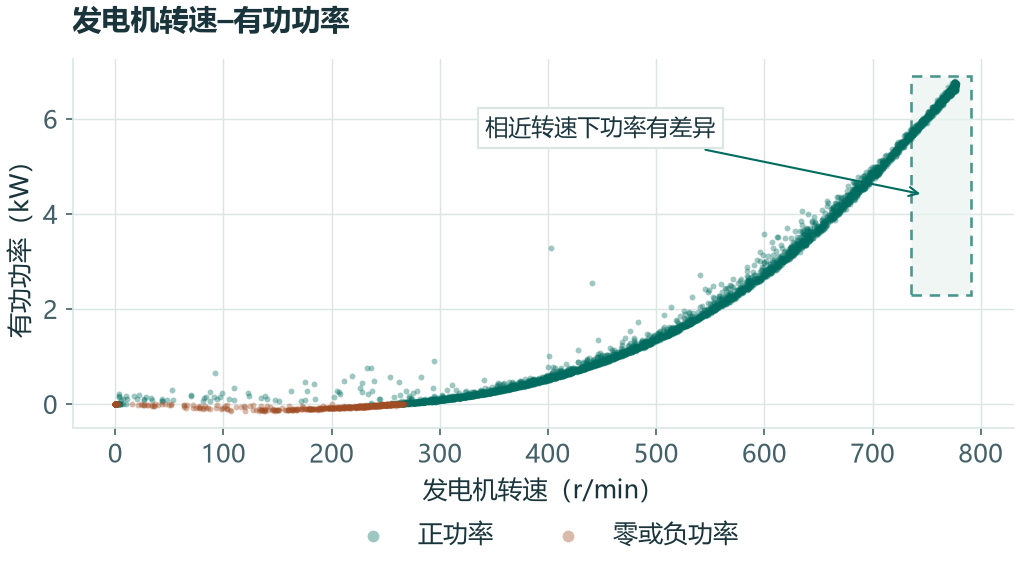
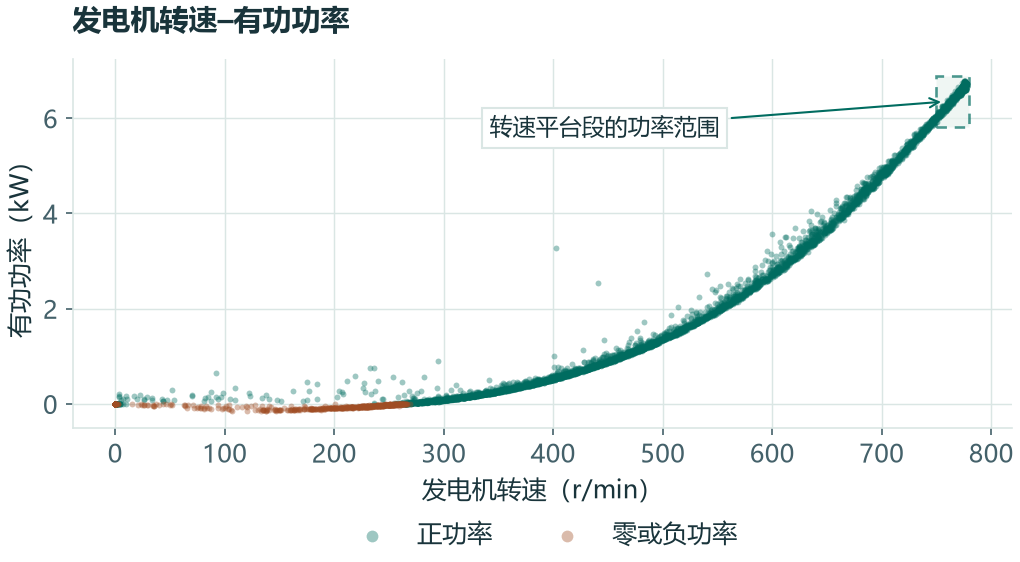
Clarify SCADA screening and improve teaching figures

diff --git a/docs/.vitepress/theme/components/CaseWalkthrough.vue b/docs/.vitepress/theme/components/CaseWalkthrough.vue
@@ -32,7 +32,7 @@ const fmtKw = value => new Intl.NumberFormat('zh-CN', { maximumFractionDigits: 1
       <div><dt>WT041 机舱</dt><dd>00:00–00:09，共 10 条分钟记录</dd><dd class="lesson-value">{{ fmt(data.pairing.nacelle) }} m/s</dd></div>
       <div><dt>A1 雷达</dt><dd>00:05 是整段窗口的中点标记</dd><dd class="lesson-value">{{ fmt(data.pairing.lidar) }} m/s</dd></div>
     </dl>
-    <p class="lesson-result">将机舱的 10 条记录汇总后，按窗口起点 00:00 与雷达记录配对。机舱平均风速减去雷达风速，差值为 <strong>{{ fmt(delta) }} m/s</strong>。</p>
+    <p class="lesson-result">雷达记录的时间减去 5 分钟后，和机舱汇总记录用同一个起点 00:00 配对。机舱均值减去雷达读数，差值为 <strong>{{ fmt(delta) }} m/s</strong>。</p>
   </figure>
 
   <figure v-else-if="example === 'coverage'" class="lesson-figure" aria-labelledby="coverage-caption">

diff --git a/scripts/plot-tutorial-figures.py b/scripts/plot-tutorial-figures.py
@@ -12,7 +12,6 @@ from matplotlib import font_manager, pyplot as plt
 from matplotlib.patches import Rectangle
 from matplotlib.ticker import MaxNLocator, PercentFormatter
 
-
 ROOT = Path(__file__).resolve().parents[1]
 DATA = ROOT / "docs/public/data"
 OUTPUT = ROOT / "docs/public/figures"
@@ -24,7 +23,6 @@ AMBER = "#a04d24"
 GRID = "#dae6e4"
 HIGHLIGHT = "#e9f3ef"
 CUTOFF = pd.Timestamp("2023-08-24T16:00:00Z")
-
 
 def configure_font(font_path):
     if font_path is not None:
@@ -55,16 +53,13 @@ def configure_font(font_path):
         "figure.dpi": 150,
     })
 
-
 def csv(name, time_column):
     data = pd.read_csv(DATA / f"{name}.csv")
     data[time_column] = pd.to_datetime(data[time_column], utc=True)
     return data
 
-
 def panel(width=7, height=4.1):
     return plt.subplots(figsize=(width, height), layout="constrained")
-
 
 def axis(ax, x, y, title=None):
     ax.set(xlabel=x, ylabel=y)
@@ -72,11 +67,9 @@ def axis(ax, x, y, title=None):
     if title is not None:
         ax.set_title(title, loc="left", pad=14)
 
-
 def save(fig, name):
     fig.savefig(OUTPUT / f"{name}.png", facecolor="white")
     plt.close(fig)
-
 
 def aventa_scatter(data):
     positive = data.power_kw.gt(0)
@@ -85,8 +78,8 @@ def aventa_scatter(data):
          "generator_rpm", "发电机转速（r/min）", (4.5, 735, 14.2, 796),
          (12.5, 785), (11.8, 637), "转速平台"),
         ("aventa-speed-power", "发电机转速–有功功率", "generator_rpm", "发电机转速（r/min）",
-         "power_kw", "有功功率（kW）", (736, 2.3, 791, 6.9),
-         (748, 4.4), (342, 5.65), "相近转速下功率有差异"),
+         "power_kw", "有功功率（kW）", (750, 5.82, 780, 6.89),
+         (758, 6.35), (342, 5.65), "转速平台段的功率范围"),
         ("aventa-wind-pitch", "风速–桨距角", "wind_ms", "风速（m/s）",
          "pitch_deg", "桨距角（°）", (0, 11, 4.2, 42),
          (4.1, 39), (6.6, 48), "低风速点带"),
@@ -106,7 +99,6 @@ def aventa_scatter(data):
         axis(ax, xlabel, ylabel, title)
         ax.legend(loc="upper center", bbox_to_anchor=(.5, -.19), ncol=2, markerscale=2)
         save(fig, name)
-
 
 def sample_counts(minutes, paired):
     valid = minutes[["nacelle_ms", "power_kw", "curtailment"]].notna().all(axis=1)
@@ -128,7 +120,6 @@ def sample_counts(minutes, paired):
         ax.bar_label(bars, [f"{count:,}" for count in counts], padding=5)
     save(fig, "scada-sample-counts")
 
-
 def bin_means(data, wind, minimum):
     usable = data[[wind, "power_kw"]].dropna()
     means = usable.groupby(np.floor(usable[wind]).astype(int)).agg(
@@ -136,35 +127,18 @@ def bin_means(data, wind, minimum):
     )
     return means[means["count"] >= minimum]
 
-
 def consecutive_bins(means):
     return means.groupby(means.index.to_series().diff().ne(1).cumsum())
-
 
 def plot_bins(ax, bins, color, style, name):
     for index, (_, group) in enumerate(consecutive_bins(bins)):
         ax.plot(group.wind, group.power, color=color, linestyle=style, linewidth=2.2,
                 marker="o", markersize=4.8, label=name if index == 0 else None)
 
-
-def scada_screening(paired):
-    fig, ax = panel()
-    excluded = paired[~paired.eligible]
-    selected = paired[paired.eligible]
-    ax.axvspan(9, 10, color=HIGHLIGHT, zorder=0)
-    ax.scatter(selected.nacelle_ms, selected.power_kw, c=TEAL, alpha=.42, s=17, label="保留窗口")
-    ax.scatter(excluded.nacelle_ms, excluded.power_kw, c=AMBER, marker="x", s=24, label="排除窗口")
-    plot_bins(ax, bin_means(paired, "nacelle_ms", 3), BLUE, "--", "筛选前分箱均值")
-    plot_bins(ax, bin_means(selected, "nacelle_ms", 3), TEAL, "-", "筛选后分箱均值")
-    axis(ax, "机舱风速（m/s）", "有功功率（kW）", "工况筛选怎样改变功率曲线")
-    ax.legend(loc="upper left", fontsize=10)
-    save(fig, "scada-screening")
-
-
 def wind_fit(train, test):
     slope, intercept = np.polyfit(train.nacelle_ms, train.lidar_ms, 1)
     low, high = train.nacelle_ms.agg(["min", "max"])
-    common = test[test.nacelle_ms.between(low, high)]
+    common = test[test.nacelle_ms.between(low, high)].sort_values("window_start_utc")
     fitted = slope * common.nacelle_ms + intercept
 
     fig, ax = panel()
@@ -181,16 +155,18 @@ def wind_fit(train, test):
     ax.legend(loc="lower right", fontsize=9.5, frameon=True, framealpha=.95, edgecolor=GRID)
     save(fig, "wind-pairs")
 
+    raw_error = (common.nacelle_ms - common.lidar_ms).abs()
+    change = (fitted - common.lidar_ms).abs() - raw_error
+    positions = np.arange(1, len(change) + 1)
     fig, ax = panel()
-    ax.axhline(0, color=MUTED, linestyle="--", linewidth=1.3)
-    ax.scatter(common.nacelle_ms, common.nacelle_ms - common.lidar_ms, marker="x",
-               c=BLUE, s=42, label="直接使用机舱风速")
-    ax.scatter(common.nacelle_ms, fitted - common.lidar_ms, edgecolors=TEAL, s=29,
-               facecolors="none", linewidths=1.55, label="直线拟合估算")
-    axis(ax, "WT041 机舱风速（m/s）", "估算风速 − 雷达风速（m/s）", "共同验证窗口的估算误差")
-    ax.legend(loc="best", fontsize=10)
+    ax.axhline(0, color=MUTED, linewidth=1.3)
+    ax.bar(positions, change, color=np.where(change < 0, TEAL, AMBER), width=.75)
+    axis(ax, "验证窗口（按 UTC 时间排序）", "绝对误差变化（m/s）", "拟合后绝对误差的变化")
+    ax.xaxis.set_major_locator(MaxNLocator(nbins=6, integer=True))
+    ax.margins(y=.12)
+    ax.text(.98, .96, "误差增大", transform=ax.transAxes, ha="right", va="top", color=AMBER)
+    ax.text(.98, .04, "误差减小", transform=ax.transAxes, ha="right", va="bottom", color=TEAL)
     save(fig, "wind-fit-errors")
-
 
 def estimate(wind, bins):
     """Interpolate only between consecutive retained wind-speed bins."""
@@ -198,7 +174,6 @@ def estimate(wind, bins):
         if group.wind.iloc[0] <= wind <= group.wind.iloc[-1]:
             return np.interp(wind, group.wind, group.power)
     return np.nan
-
 
 def power_curves(train, test):
     fig, axes = plt.subplots(1, 2, figsize=(8.4, 4.2), sharex=True, sharey=True,
@@ -232,7 +207,6 @@ def power_curves(train, test):
     ax.legend(loc="lower right", fontsize=10)
     save(fig, "power-validation")
 
-
 def weibull_frequency(lidar):
     speeds = np.sort(lidar.lidar_ms.to_numpy())
     n = len(speeds)
@@ -252,7 +226,6 @@ def weibull_frequency(lidar):
     axis(ax, "雷达风速（m/s）", "频率密度（% / (m/s)）", "A1 雷达风速分布与 Weibull 拟合")
     ax.legend(loc="upper right", fontsize=10)
     save(fig, "lidar-wind-frequency")
-
 
 def synchronized_signals(aventa):
     start = pd.Timestamp("2025-06-04T05:23:00Z")
@@ -283,7 +256,6 @@ def synchronized_signals(aventa):
     axes[-1].set_xticks([0, 4, 8, 12, 14], ["05:23", "05:27", "05:31", "05:35", "05:37"])
     save(fig, "aventa-synchronized-signals")
 
-
 def main():
     parser = argparse.ArgumentParser(description=__doc__)
     parser.add_argument("--font", type=Path, help="中文字体文件（可选）")
@@ -299,12 +271,10 @@ def main():
     test = eligible[eligible.window_start_utc >= CUTOFF]
     aventa_scatter(aventa)
     sample_counts(minutes, paired)
-    scada_screening(paired)
     wind_fit(train, test)
     power_curves(train, test)
     weibull_frequency(lidar)
     synchronized_signals(aventa)
-
 
 if __name__ == "__main__":
     main()

diff --git a/docs/pitch.md b/docs/pitch.md
@@ -4,7 +4,7 @@
 import { withBase } from 'vitepress'
 </script>
 
-变桨筛查有三个尺度：在同风速箱内找偏离，在同一台机组内对照各片叶片，沿时间轴检查反馈是否跟上指令。下表给出各自需要的信号。
+风速分箱回答角度是否偏离历史水平，逐叶片对照回答偏离集中在哪一片，指令与反馈时序回答叶片是否跟上控制指令。
 
 ## 监测数据与证据
 
@@ -26,20 +26,15 @@ import { withBase } from 'vitepress'
 
 ## 风速–桨距角散点图判读
 
-看相近风速下的角度点带，再按时间戳核对状态。连续偏离需回到时间序列判断。
-
-<figure class="tutorial-figure">
-  <a :href="withBase('/figures/pitch-scatter.png')" target="_blank" rel="noopener"><img src="/figures/pitch-scatter.png" width="1110" height="690" loading="lazy" alt="ENGIE 风速–桨距角全范围散点，阴影标出 8 至 9 m/s 箱，橙色菱形标出三个候选窗口。" /></a>
-  <figcaption><strong>ENGIE 风速–桨距角散点</strong> 每点对应一个 10 分钟窗口，角度来自汇总字段 <code>Ba_avg</code>。先用字段齐全且功率为正筛出参考记录，现场分析还要用状态和事件确认工况。</figcaption>
-</figure>
+绘制风速–桨距角散点时，用每个点所在风速箱的参考带判断是否越界。ENGIE 案例使用机组汇总桨距角（`Ba_avg`），每点为一个十分钟窗口。
 
 ### 实测案例：分段参考范围 {#建参考范围并手算一次}
 
-用 ENGIE 的 2 月记录建参考。在 8–9 m/s 箱，442 条样本的中位数为 −0.99°，第 5 至第 95 百分位约为 −0.99° 至 −0.90°。把 3 月同箱记录与这条上界比较，图中标出三个候选窗口。
+先从 ENGIE 的 2 月记录中选字段齐全、功率为正的窗口作案例参考。8–9 m/s 箱的 442 条记录给出中位数 −0.99°，第 5 至第 95 百分位约为 −0.99° 至 −0.90°。用同一条上界对照 3 月的同箱记录。
 
 <figure class="tutorial-figure">
   <a :href="withBase('/figures/pitch-reference-zoom.png')" target="_blank" rel="noopener"><img src="/figures/pitch-reference-zoom.png" width="945" height="600" loading="lazy" alt="放大 8 至 9 m/s 箱的低桨距角范围，三个橙色候选点略高于浅绿色参考带。" /></a>
-  <figcaption><strong>8–9 m/s 风速箱的候选窗口</strong> 用下表核对越界量，再回查前后窗口各自所在的风速箱。</figcaption>
+  <figcaption><strong>8–9 m/s 风速箱的候选窗口</strong> 绿色带是 2 月参考范围，橙色点是 3 月超过上界的候选窗口。纵轴放大了低角度区，便于读出约 0.04–0.05° 的差值。</figcaption>
 </figure>
 
 | 记录时间（UTC） | 风速（m/s） | 桨距角（°） | 高于上界（°） |
@@ -54,12 +49,7 @@ import { withBase } from 'vitepress'
 
 汇总角度会掩盖单片偏离。共同变桨时，可用同一时刻三片反馈角的最大值减最小值来找分歧，再查看哪一片偏开。跨机组对照则用同一坐标比较点带位置，定位哪台机组、哪个风速段值得追查。
 
-<figure class="tutorial-figure">
-  <a :href="withBase('/figures/blade-pitch-comparison.png')" target="_blank" rel="noopener"><img src="/figures/blade-pitch-comparison.png" width="1280" height="976" loading="lazy" alt="左右列分别是 Kelmarsh 1、2 号机组的逐叶片角度，上排显示全范围，下排放大两台机组的 2 至 6 m/s 低角度区域。" /></a>
-  <figcaption><strong>Kelmarsh 逐叶片及跨机组对照</strong> 两台机组均使用 2016 年 7 月的正功率窗口。下排放大 2–6 m/s，便于分辨三片叶片的点带是否分离，以及差异是否集中在一台机组。</figcaption>
-</figure>
-
-[Kelmarsh 逐叶片数据](/data/kelmarsh-blade-pitch.csv)
+在 Kelmarsh 的 2–6 m/s 区间，1、2 号机组三片叶片同窗角度极差的第 95 百分位分别约为 0.045° 和 0.027°。这说明两台机组的大部分记录中，三片角度很接近。若要筛查突然分离的窗口，直接计算角度极差更清楚。 [逐叶片数据](/data/kelmarsh-blade-pitch.csv) · [原散点图](/figures/blade-pitch-comparison.png)
 
 ## 指令跟踪与事件复核 {#变桨监测方法与选用条件}
 
@@ -67,12 +57,7 @@ import { withBase } from 'vitepress'
 
 <figure class="tutorial-figure">
   <a :href="withBase('/figures/pitch-following-patterns.svg')" target="_blank" rel="noopener"><img src="/figures/pitch-following-patterns.svg" width="720" height="360" loading="lazy" alt="左图三片在共同指令升高后同步跟随，右图叶片 1 和 2 跟随，叶片 3 反馈仍停在原位置。" /></a>
-  <figcaption><strong>多片同步变化与单片持续偏离</strong> 指令改变后留出机型规定的响应时间，再判断反馈是否持续偏离。</figcaption>
-</figure>
-
-<figure class="tutorial-figure">
-  <a :href="withBase('/figures/pitch-screening-workflow.svg')" target="_blank" rel="noopener"><img src="/figures/pitch-screening-workflow.svg" width="720" height="293" loading="lazy" alt="从散点标记候选后，依次检查原始时序、叶片指令和反馈、告警与工况，结合事件和检修给出判断。" /></a>
-  <figcaption><strong>变桨异常筛查流程</strong> 流程从候选窗口出发，逐步查清偏离是何时发生的、是否只涉及单片，以及同期控制记录能解释到哪一步。</figcaption>
+  <figcaption><strong>多片同步变化与单片持续偏离</strong> 右图在共同指令升高后，第 3 片反馈仍停在原角度。这种持续不跟随的现象用来定位要查哪片叶片、查哪个时段。</figcaption>
 </figure>
 
 ### 候选事件记录 {#事件复核与检测验证}

diff --git a/docs/scada.md b/docs/scada.md
@@ -27,12 +27,7 @@ SCADA（监控与数据采集系统）按时间保存机组测量值、控制信
 
 ## 数据质量与工况判断 {#字段核查与工况筛选}
 
-先确定分析需要的字段，再检查单条记录的有效性、运行工况和配对条件。
-
-<figure class="tutorial-figure">
-  <a :href="withBase('/figures/scada-workflow.svg')" target="_blank" rel="noopener"><img src="/figures/scada-workflow.svg" width="720" height="293" loading="lazy" alt="从读取原始表到输出样本，依次核对字段、统一时间、检查缺测重复和异常值，并按用途筛选工况。" /></a>
-  <figcaption><strong>SCADA 样本筛选流程</strong> 单表记录有效后，仍需按用途选择工况。需要独立测风时，再用同一窗口配对。</figcaption>
-</figure>
+一条记录可以有效，却不适合某项分析。零功率是有效的停机记录，可用于事件统计。建立正常发电曲线时，应将这类记录另作标记。
 
 ### 数据质量检查 {#数据质量检查清单}
 
@@ -47,23 +42,20 @@ SCADA（监控与数据采集系统）按时间保存机组测量值、控制信
 
 ## 实测案例：有效记录与合格工况 {#实测案例-有效记录与合格工况}
 
-AWAKEN 案例先保留风速、功率和限功率标记齐全的分钟，再筛选风速、功率均为正且未限功率的记录。每个十分钟窗口须有 10 条分钟记录通过筛选且雷达风速有效。
+1. **检查分钟记录。** WT041 的 1,440 条分钟记录中，风速、功率和限功率标志均有效的有 1,436 条。其中 1,420 条的风速和功率均为正，且未标为限功率。
+2. **按十分钟汇总。** 按 UTC 窗口起点分组。例如 06:10 至 06:19 的分钟记录属于同一窗，用窗内有效记录计算风速和功率均值，同时统计通过发电筛选的分钟数。
+3. **选取建模窗口。** 本例只保留 10 条分钟记录全部通过发电筛选、且同期雷达风速有效的窗口，最终有 131 个。这个门槛专用于本例的双曲线对照。其他任务依所需工况和覆盖率定规则。
 
 <figure class="tutorial-figure">
   <a :href="withBase('/figures/scada-sample-counts.png')" target="_blank" rel="noopener"><img src="/figures/scada-sample-counts.png" width="1050" height="787" loading="lazy" alt="上图的分钟记录从 1,440 条减至 1,436 条有效、1,420 条通过发电筛选。下图的十分钟窗口从 144 个减至 141 个记录齐全、131 个符合筛选及配对条件。" /></a>
-  <figcaption><strong>WT041 样本数量随筛选变化</strong> 1,440 条原始记录中有 1,436 条字段齐全，1,420 条通过发电筛选。按十分钟汇总并与雷达配对后，得到 131 个合格窗口。</figcaption>
+  <figcaption><strong>WT041 样本数量随筛选变化</strong> 上半图计数的是分钟记录，下半图计数的是十分钟窗口。两层数量分别对应明细筛选和建模选样。</figcaption>
 </figure>
 
-| 窗口起点（UTC） | 有效分钟 | 通过发电筛选 | 机舱风速均值 | 有功功率均值 |
-| --- | ---: | ---: | ---: | ---: |
-| 00:00 | 10 | 10 | 5.20 m/s | 479.88 kW |
-| 06:10 | 10 | 9 | 9.46 m/s | 2,236.67 kW |
+| 窗口起点（UTC） | 有效分钟 | 通过发电筛选 | 同期雷达 | 进入双曲线对照 |
+| --- | ---: | ---: | --- | --- |
+| 00:00 | 10 | 10 | 有效 | 是 |
+| 06:10 | 10 | 9 | 有效 | 否 |
 
-06:10 窗口的 10 条记录均有效，但 06:18 的限功率标志为 1，导致全窗只有 9 条通过发电筛选，因而整窗不进入对照。原记录仍可用于查看该时段的运行表现。 [机组分钟记录](/data/awaken-wt041-scada-1min.csv) · [配对窗口表](/data/awaken-a1-wt041-2023-08-24.csv)
+06:10 窗口有 10 条有效记录，雷达也有读数，但 06:18 的限功率标志为 1。按本例规则，整个窗口排除。其均值和原始记录仍可用于回查限功率时段。 [机组分钟记录](/data/awaken-wt041-scada-1min.csv) · [配对窗口表](/data/awaken-a1-wt041-2023-08-24.csv)
 
-9–10 m/s 箱中，有 3 个窗口未满足“10 条分钟记录全部通过发电筛选”的条件。被排除窗口的平均功率高于留下的 3 个，所以筛选后的箱内均值降低。
-
-<figure class="tutorial-figure">
-  <a :href="withBase('/figures/scada-screening.png')" target="_blank" rel="noopener"><img src="/figures/scada-screening.png" width="1050" height="615" loading="lazy" alt="机舱风速与有功功率散点显示，筛选排除了部分窗口，9 至 10 m/s 箱的均值随之改变。" /></a>
-  <figcaption><strong>工况筛选前后的分箱均值</strong> 9–10 m/s 箱由 6 个窗口变为 3 个，均值约从 2,160 kW 变为 2,122 kW。两条曲线可用来查看筛选改变了哪些风速箱的样本和均值。</figcaption>
-</figure>
+筛选也会改变模型的样本覆盖。以机舱风速 9–10 m/s 箱为例，留用窗口由 6 个减到 3 个，均值约从 2,160 降至 2,122 kW。对建模而言，先要看这个箱还剩多少样本、是否达到分箱门槛。 [功率曲线建模](/power#怎样画曲线并比较误差)

diff --git a/docs/operations.md b/docs/operations.md
@@ -10,7 +10,7 @@ import { withBase } from 'vitepress'
 
 <figure class="tutorial-figure">
   <a :href="withBase('/figures/pitch-concept.svg')" target="_blank" rel="noopener"><img src="/figures/pitch-concept.svg" width="720" height="668" loading="lazy" alt="上层画出三片叶片绕风轮轴转动、风从叶片一侧吹向机舱以及机舱内发电机。下层沿单片叶片长轴看翼型截面，用橙色圆弧标出基准方向到当前方向的夹角。" /></a>
-  <figcaption><strong>风轮旋转与单片叶片变桨</strong> 从迎风面看三片叶片一起旋转，再沿单片叶片长轴看同一翼型截面转过的角度。</figcaption>
+  <figcaption><strong>风轮旋转与单片叶片变桨</strong> 风轮旋转时，叶尖绕轮毂移动。变桨时，从叶尖沿长轴看，看到的是同一片叶片的截面相对于基准方向转过的角度。</figcaption>
 </figure>
 
 ### 四个常用运行量
@@ -53,7 +53,7 @@ import { withBase } from 'vitepress'
 
 <ol class="scatter-reading">
   <li><figure class="tutorial-figure"><a :href="withBase('/figures/wind-generator.png')" target="_blank" rel="noopener"><img src="/figures/aventa-wind-speed.png" width="1020" height="562" loading="lazy" alt="风速–发电机转速图框出了约 750–780 r/min 的水平点群。" /></a><figcaption><strong>先看风速–发电机转速</strong> 约 750–780 r/min 的横向点群标出案例中的高转速运行区间，可据此筛出平台段的记录。</figcaption></figure></li>
-  <li><figure class="tutorial-figure"><a :href="withBase('/figures/generator-power.png')" target="_blank" rel="noopener"><img src="/figures/aventa-speed-power.png" width="1020" height="562" loading="lazy" alt="发电机转速–有功功率图框出了右侧同一转速附近纵向分散的功率点。" /></a><figcaption><strong>再看发电机转速–有功功率</strong> 转速平台对应的功率仍有高低。判断是否接近额定出力，要直接看功率列。</figcaption></figure></li>
+  <li><figure class="tutorial-figure"><a :href="withBase('/figures/generator-power.png')" target="_blank" rel="noopener"><img src="/figures/aventa-speed-power.png" width="1020" height="562" loading="lazy" alt="发电机转速–有功功率图框出了右侧同一转速附近纵向分散的功率点。" /></a><figcaption><strong>再看发电机转速–有功功率</strong> 看右上角约 750–780 r/min 的点带：转速变化范围窄，功率仍约为 5.92–6.78 kW。判断是否接近额定出力，要读取功率。</figcaption></figure></li>
   <li><figure class="tutorial-figure"><a :href="withBase('/figures/wind-pitch.png')" target="_blank" rel="noopener"><img src="/figures/aventa-wind-pitch.png" width="1020" height="562" loading="lazy" alt="风速–桨距角图框出了低风速的多条角度点带，其中约 39 度的一带有棕色记录。" /></a><figcaption><strong>最后对照风速–桨距角</strong> 低风速下出现多条角度带，约 39° 的点带含零功率记录。这些点带提供了按运行状态分组的线索。</figcaption></figure></li>
 </ol>
 

diff --git a/docs/power.md b/docs/power.md
@@ -35,10 +35,10 @@ import CaseWalkthrough from './.vitepress/theme/components/CaseWalkthrough.vue'
 
 <figure class="tutorial-figure">
   <a :href="withBase('/figures/power-curves.png')" target="_blank" rel="noopener"><img src="/figures/power-curves.png" width="1260" height="630" loading="lazy" alt="并排对比 A1 雷达和 WT041 机舱风速的原始功率散点。每个圆点表示一个箱的平均风速与平均功率，曲线仅连接相邻箱。" /></a>
-  <figcaption><strong>风速分箱与功率建模</strong> 淡点是同一台机组的实测功率。实心点是箱内平均值，连线用于插值。机舱曲线在所示区间上升较平顺，雷达曲线高风速端有回落。</figcaption>
+  <figcaption><strong>风速分箱与功率建模</strong> 同一窗口的有功功率在左右图相同，只有横坐标换成了另一测点的风速。淡点是单窗记录，实心点是同箱记录的平均风速与平均功率，线段连接相邻箱的均值。</figcaption>
 </figure>
 
-以 16:00 UTC 窗口为例。雷达测到 6.10 m/s，先到雷达曲线上找它左右两侧的点，按风速间距对功率插值。
+16:00 UTC 的雷达风速为 6.10 m/s，落在 5.61 和 6.53 m/s 两个相邻点之间。它离左端约占两点间距的 53%，因此取左端功率加上约 53% 的两端功率差。实际结果用未取整的曲线点计算。
 
 | 雷达曲线上的位置 | 风速（m/s） | 功率（kW） |
 | --- | ---: | ---: |
@@ -46,7 +46,7 @@ import CaseWalkthrough from './.vitepress/theme/components/CaseWalkthrough.vue'
 | 待估算的窗口 | 6.10 | 约 1,071 |
 | 右侧曲线点 | 约 6.53 | 约 1,287 |
 
-插值使用未取整的曲线点。这个窗口用机舱曲线估算约 1,152 kW，实测约 1,155 kW。
+同一个窗口用机舱曲线估算约 1,152 kW，实测约 1,155 kW。
 
 <CaseWalkthrough example="coverage" />
 
@@ -60,7 +60,7 @@ import CaseWalkthrough from './.vitepress/theme/components/CaseWalkthrough.vue'
 | A1 雷达 | 463 | +445 |
 | WT041 机舱 | 42 | −1 |
 
-在共同的 25 个窗口中，雷达曲线的误差以高估为主，机舱曲线的 MAE 更低，平均偏差也更接近零。因此这一天的 WT041 同期功率估算优先选机舱曲线。 [案例配对 CSV](/data/awaken-a1-wt041-2023-08-24.csv)
+两条曲线在同一批 25 个窗口上比较，机舱曲线的 MAE 为 42 kW，雷达曲线为 463 kW。雷达曲线多数窗口偏高。这一结果支持在本例这一天、这台机组的同期估算中优先采用机舱曲线。 [案例配对 CSV](/data/awaken-a1-wt041-2023-08-24.csv)
 
 ## 曲线应用 {#曲线应用与功率预测}
 

diff --git a/docs/practice.md b/docs/practice.md
@@ -8,11 +8,11 @@ import { withBase } from 'vitepress'
 
 散点图能指出哪些变量一起变化。按时间戳对齐后，可以进一步定位变化开始的时刻、各信号变化的先后和持续时间。
 
-下图对齐 Aventa 在 2025 年 6 月 4 日的四路分钟信号，浅色标出连续正功率的窗口。
+下图对齐 Aventa 在 2025 年 6 月 4 日的四路分钟信号。
 
 <figure class="tutorial-figure">
   <a :href="withBase('/figures/aventa-synchronized-signals.png')" target="_blank" rel="noopener"><img src="/figures/aventa-synchronized-signals.png" width="1050" height="990" loading="lazy" alt="Aventa 在 05:23 至 05:37 UTC 的四路同步时序。05:27 风速和转速上升、功率转正、桨距角下降，绿色条标出连续正功率窗口。" /></a>
-  <figcaption><strong>对齐风速、功率、转速与桨距角</strong> 从 05:27 UTC 起可定位到一段连续正功率窗口。图中是分钟记录，可读出窗口间的变化顺序，同一分钟内的动作先后需用更高频的记录。</figcaption>
+  <figcaption><strong>对齐风速、功率、转速与桨距角</strong> 从 05:27 UTC 起的浅色区域标出连续正功率窗口，可直接用该起点定位原始记录。同一分钟内各动作的先后需用更高频的记录查看。</figcaption>
 </figure>
 
 [Aventa 分钟运行数据](/data/aventa-linked-scatter.csv)
